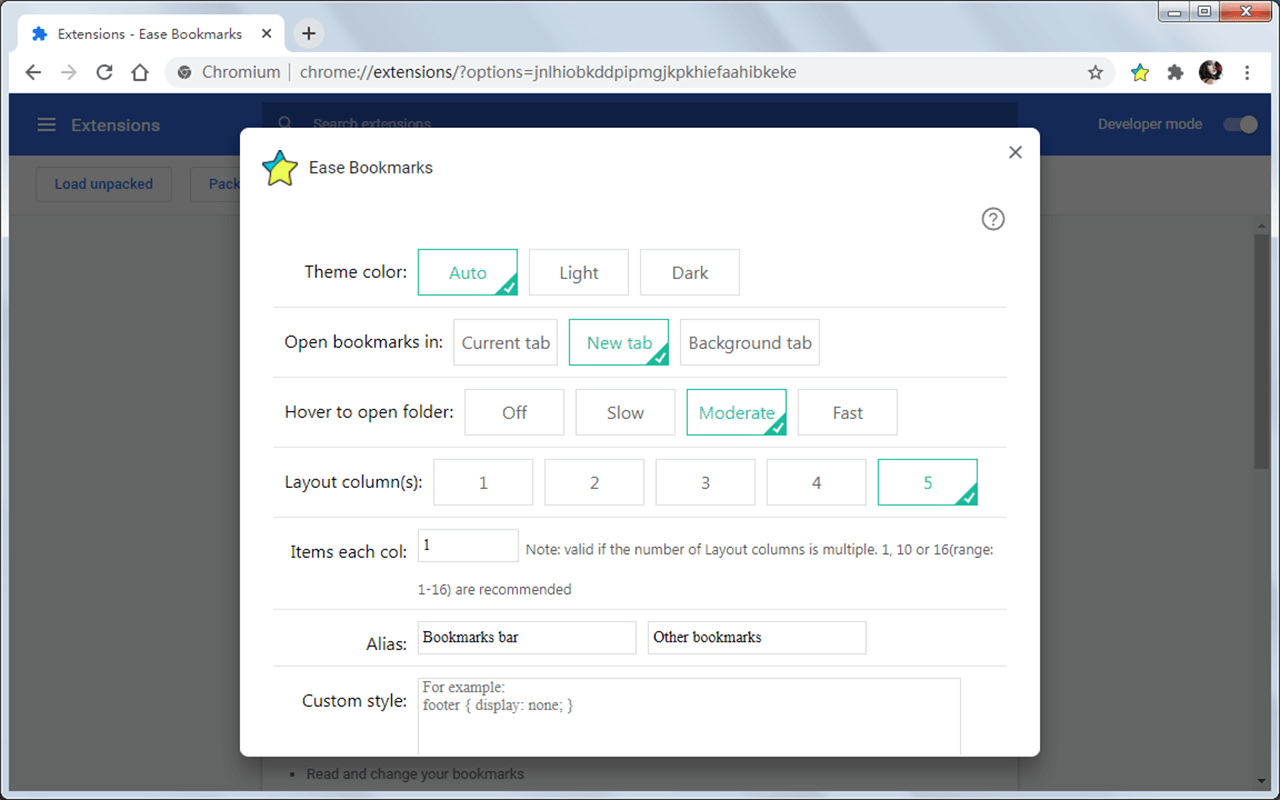
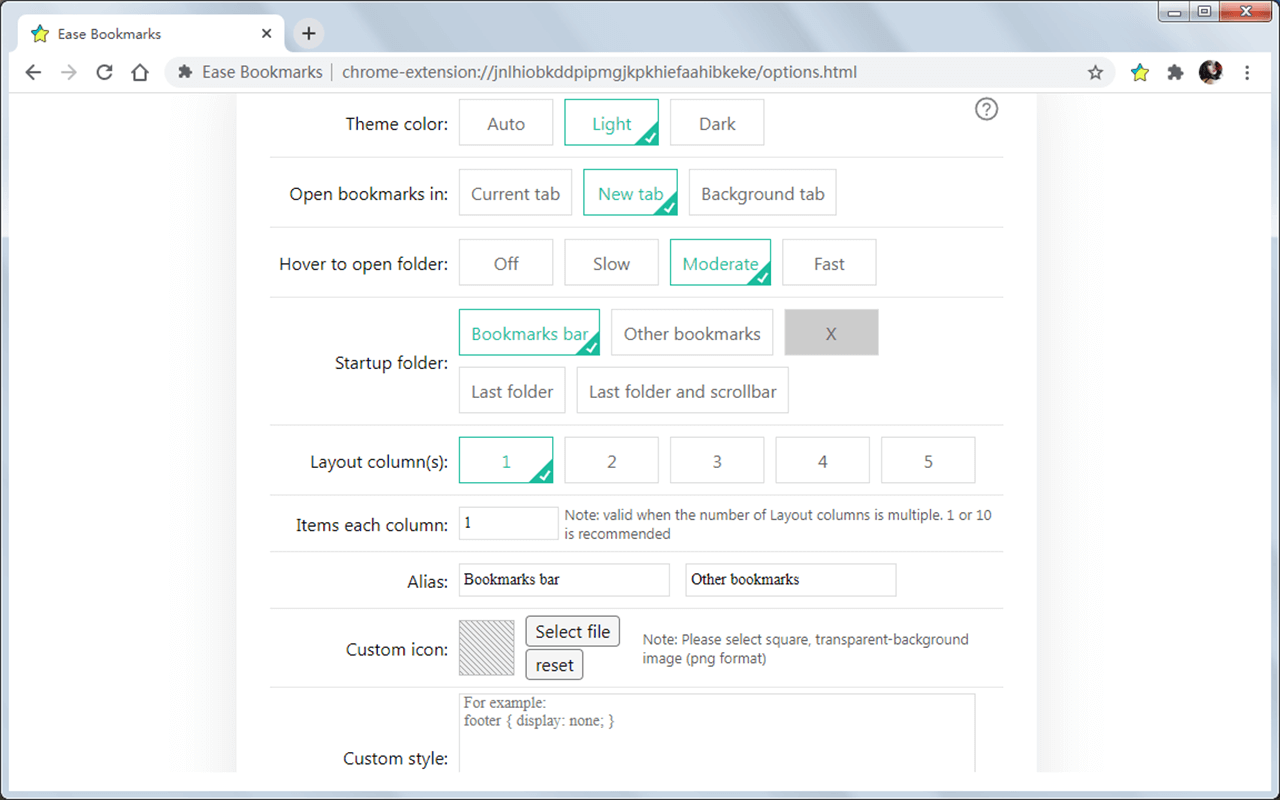
docs：更新截图

diff --git a/README.md b/README.md
@@ -13,7 +13,7 @@ Ease Bookmarks 是一款为了替代浏览器原有书签栏的扩展
 
 在此基础上，尽可能满足各类 书签使用习惯 用户的需求
 
-![2-popup.png](./screenshots/2-popup.png)
+![1-popup.png](./screenshots/1-popup.png)
 
 ## 主要功能
 

diff --git a/screenshots/README.md b/screenshots/README.md
@@ -22,10 +22,6 @@ JPEG 或 24 位 PNG（无 alpha 透明层）
 
 ![1-popup.png](1-popup.png)
 
-![2-popup.png](2-popup.png)
-
-![3-dark.png](3-dark.png)
-
 ![4-duolie.png](4-duolie.png)
 
 ![5-options.png](5-options.png)
